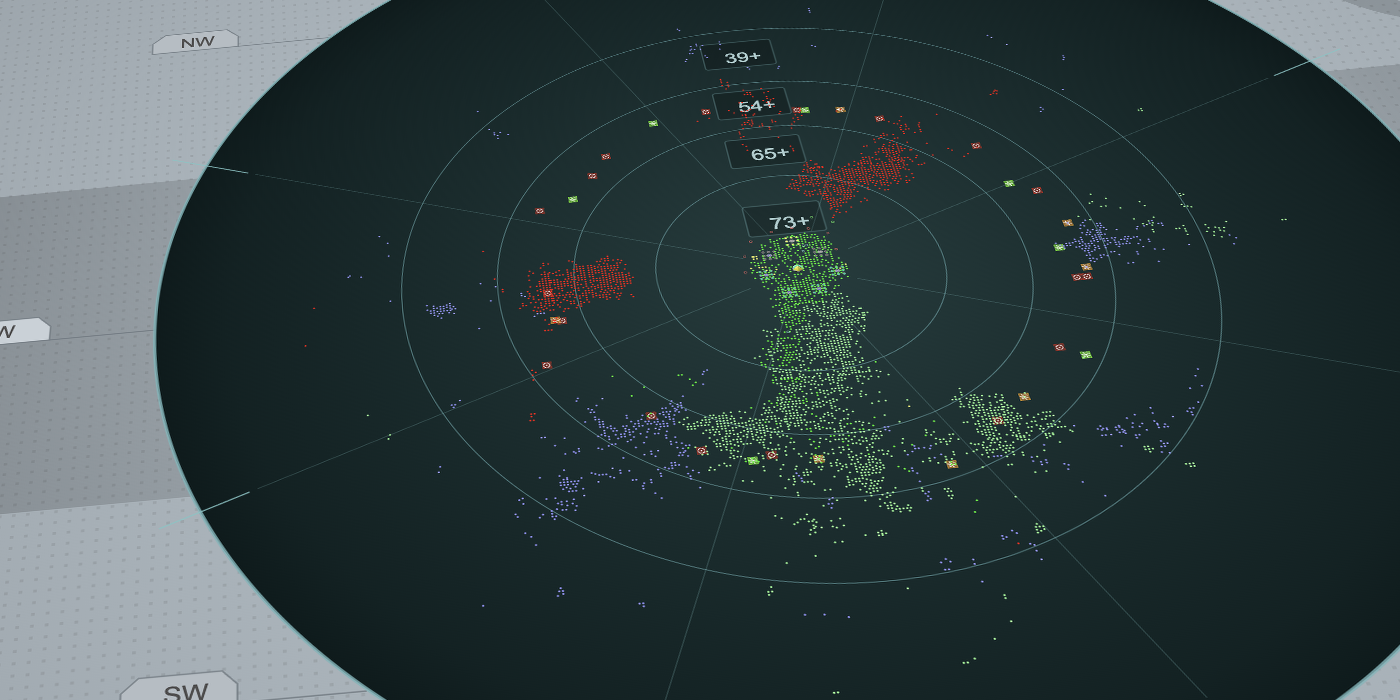
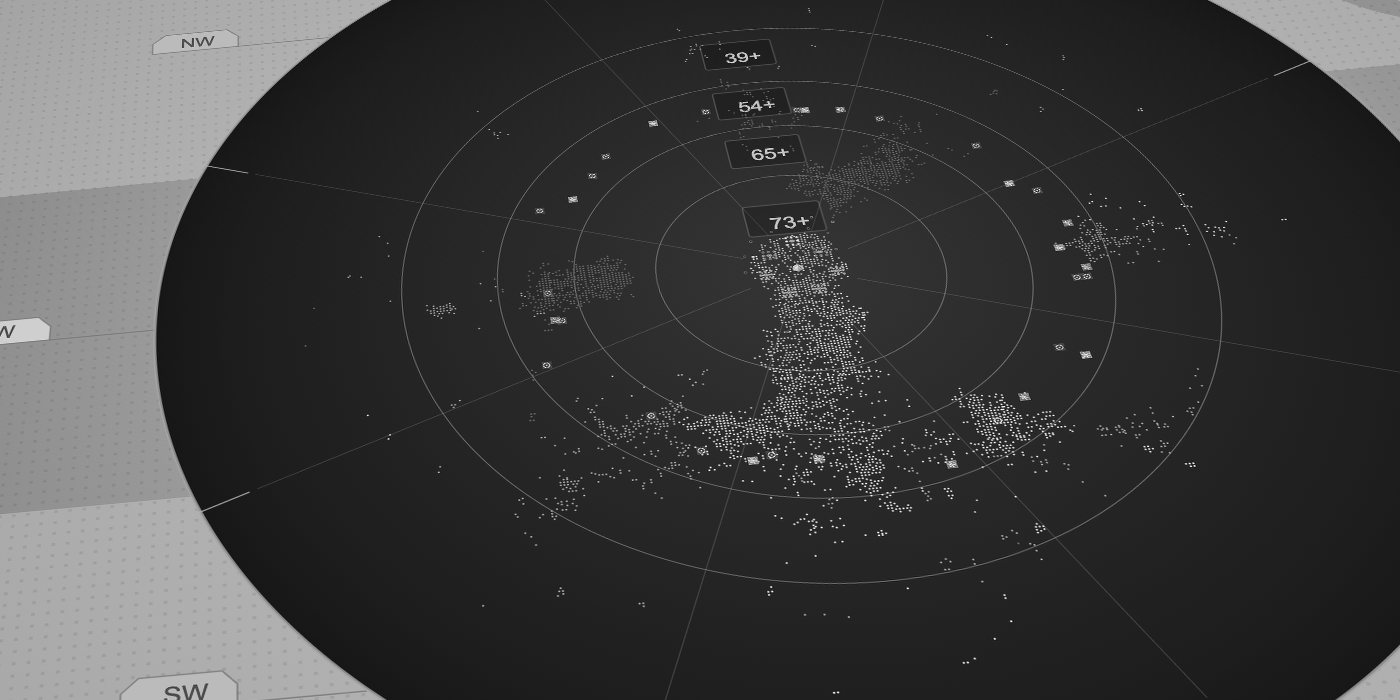
manifest update

diff --git a/src/content/MigrationPage/MigrationPage.jsx b/src/content/MigrationPage/MigrationPage.jsx
@@ -497,6 +497,12 @@ class MigrationPage extends React.Component {
                                                     kind={
                                                         this.state.manifest.type
                                                     }
+                                                    className={
+                                                        this.state.manifest
+                                                            .type === 'none'
+                                                            ? 'dim-notification'
+                                                            : ''
+                                                    }
                                                     role="status"
                                                     statusIconDescription="notification"
                                                     subtitle={item}

diff --git a/src/content/MigrationPage/_migration-page.scss b/src/content/MigrationPage/_migration-page.scss
@@ -39,3 +39,7 @@
     border: none;
     background-color: colors.$blue-20;
 }
+
+.dim-notification .cds--toast-notification__subtitle {
+    color: colors.$gray-10;
+}

diff --git a/cnc/image_transform.py b/cnc/image_transform.py
@@ -6,6 +6,7 @@ from pathlib import Path
 import cv2
 
 from cnc.models.migration import (
+    EventType,
     MigrationData,
     MigrationManifest,
     MigrationMetadata,
@@ -13,10 +14,22 @@ from cnc.models.migration import (
 )
 
 
+def get_manifest(
+    date_object: date, manifests: list[MigrationManifest]
+) -> MigrationManifest | None:
+    return next(filter(lambda x: x.date == date_object, manifests), None)
+
+
 def get_description(date_object: date, manifests: list[MigrationManifest]) -> list[str]:
-    manifest = next(filter(lambda x: x.date == date_object, manifests), None)
+    manifest = get_manifest(date_object, manifests)
 
     return manifest.description if manifest else []
+
+
+def is_grayscale(date_object: date, manifests: list[MigrationManifest]) -> bool:
+    manifest = get_manifest(date_object, manifests)
+
+    return manifest.type == EventType.NONE if manifest else False
 
 
 def process_images(
@@ -46,11 +59,17 @@ def process_images(
         if metadata.end_date is None or metadata.end_date < date_object:
             metadata.end_date = date_object
 
-        image = cv2.imread(item)
+        description = get_description(date_object, metadata.manifests)
+        none_check = is_grayscale(date_object, metadata.manifests)
+
+        image = cv2.imread(
+            item, cv2.IMREAD_GRAYSCALE if none_check else cv2.IMREAD_COLOR
+        )
+
         new_story = Story(
             date=date_object,
             snapshot=image,
-            description=get_description(date_object, metadata.manifests),
+            description=description,
         )
 
         new_story.make_transform(

diff --git a/cnc/models/migration.py b/cnc/models/migration.py
@@ -13,6 +13,7 @@ class EventType(StrEnum):
     INFO = auto()
     SUCCESS = auto()
     WARNING = auto()
+    NONE = auto()
 
 
 class MigrationManifest(BaseModel):
